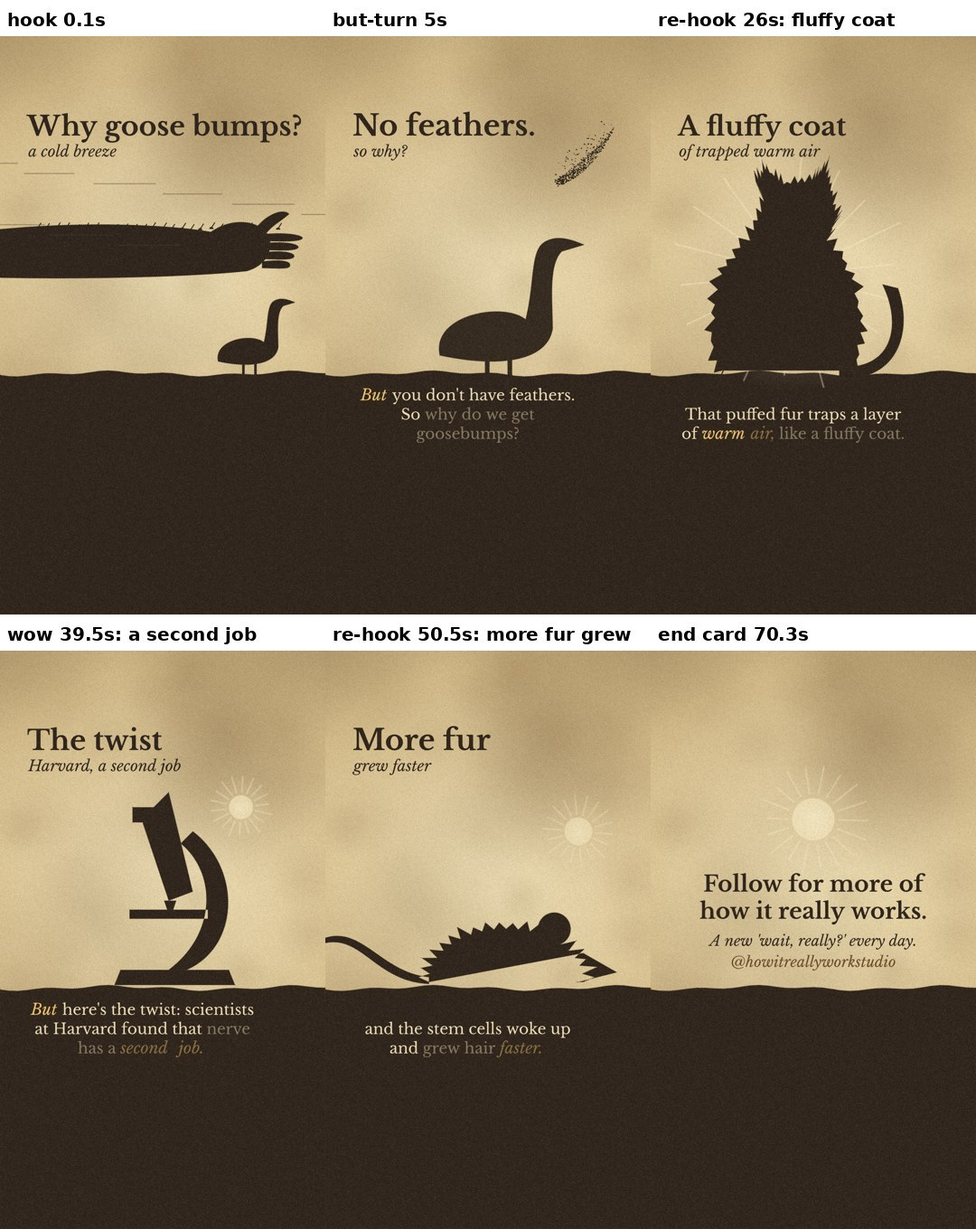
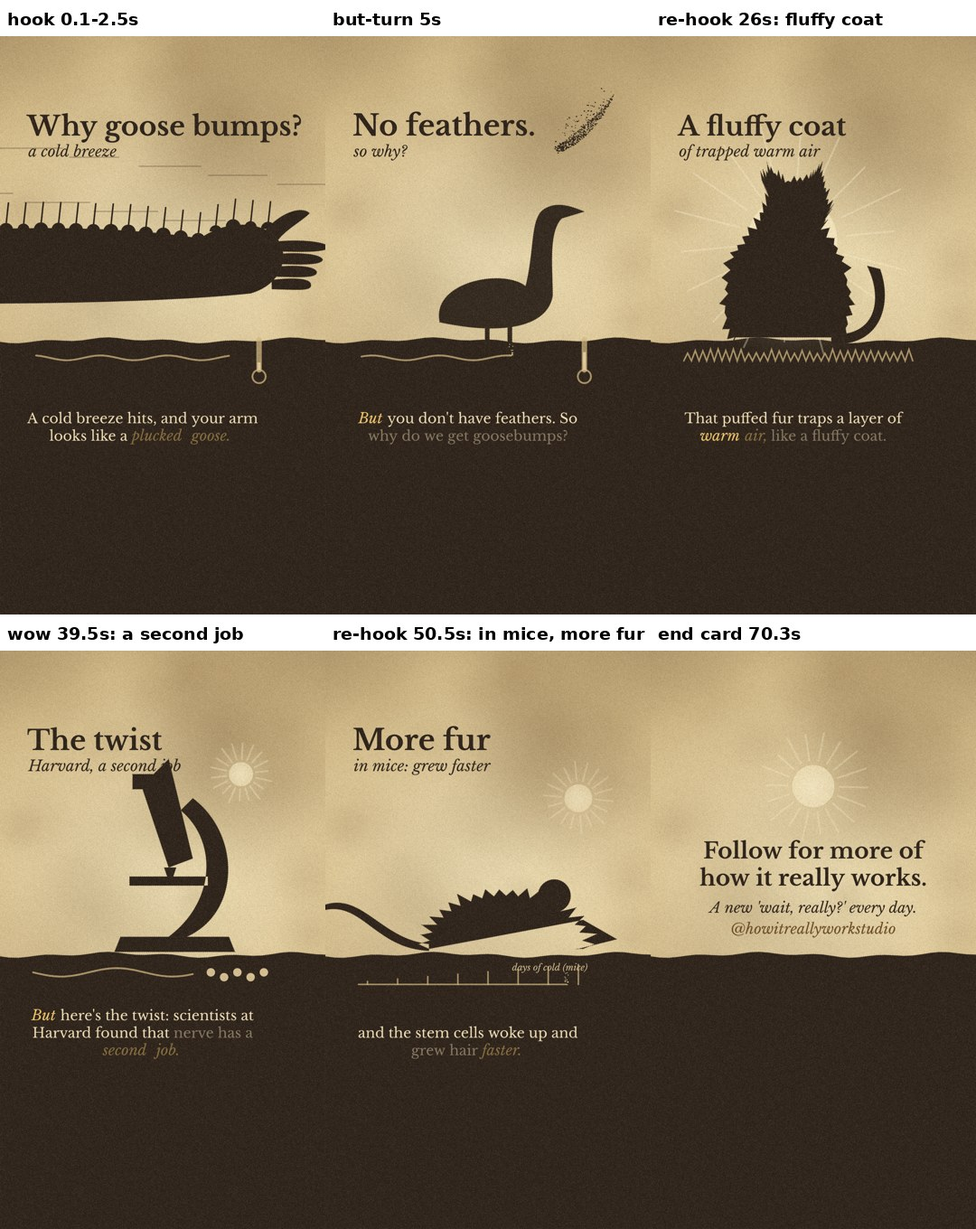
goosebumps: big moving arm hook, lifted horizon with sand drawings in the ground, in mice on screen; mpemba: taller sheet and bigger drawings, thought bubbles, caption card from frame 0, 120 cps typing, digit years in captions
Claude-Session: https://claude.ai/code/session_01BPYB3nfqh6HEjZ42pf9qga

diff --git a/reels/t_goosebumps.js b/reels/t_goosebumps.js
@@ -6,7 +6,7 @@
 // Batch N layout: captions inside x 80-880, bottom at y 1355; titles at y 270-460; silhouettes inside y 250-1120; badge strip y 1366-1440 free.
 await Promise.all(['700 96px Bask', 'italic 400 52px BaskI', '400 50px Bask'].map(f => document.fonts.load(f)));
 const TL = window.TL, PH = TL.p, s = i => PH[i].start, TOT = TL.total;
-const W = 1080, H = 1920, TAU = Math.PI * 2, CX = 540, HZ = 1120;          // HZ: sand horizon
+const W = 1080, H = 1920, TAU = Math.PI * 2, CX = 540, HZ = 1010, DY = -110;   // HZ: sand horizon; DY: scene drawings are lifted to stand on it
 const cv = document.getElementById('c'); cv.width = W; cv.height = H; let g = cv.getContext('2d');
 const clamp = (x, a = 0, b = 1) => Math.min(b, Math.max(a, x)), lerp = (a, b, k) => a + (b - a) * k;
 const ss = (a, b, x) => { const k = clamp((x - a) / (b - a)); return k * k * (3 - 2 * k); }, eo = k => 1 - Math.pow(1 - clamp(k), 3);
@@ -27,7 +27,7 @@ function grain(t) { const q = Math.floor(t * 12), pat = g.createPattern(GRAIN[q 
 const [Mc, Mg] = mk(W, H);
 function sandFill(path, col = SAND, a = 1) { g.save(); g.globalAlpha = a; g.fillStyle = col; g.fill(path); g.globalAlpha = a * .55; g.lineWidth = 3; g.strokeStyle = SAND2; g.setLineDash([2, 5]); g.stroke(path); g.restore(); }
 const PTS = new Map();
-function inside(path, key, n, box) { if (PTS.has(key)) return PTS.get(key); const out = []; let tries = 0; while (out.length < n && tries < n * 40) { tries++; const x = box[0] + hash(tries * 1.31 + key.length) * box[2], y = box[1] + hash(tries * 2.77 + 9) * box[3]; if (g.isPointInPath(path, x, y)) out.push([x, y]); } PTS.set(key, out); return out; }
+function inside(path, key, n, box) { if (PTS.has(key)) return PTS.get(key); const out = []; let tries = 0; g.save(); g.setTransform(1, 0, 0, 1, 0, 0); while (out.length < n && tries < n * 40) { tries++; const x = box[0] + hash(tries * 1.31 + key.length) * box[2], y = box[1] + hash(tries * 2.77 + 9) * box[3]; if (g.isPointInPath(path, x, y)) out.push([x, y]); } g.restore(); PTS.set(key, out); return out; }
 // k: 0 = scattered sand above, .7 = grains settled, 1 = solid. out: 0..1 sweeps it away to the right
 function sandShape(path, key, box, k, o = {}) { if (k <= 0) return; const P = inside(path, key, o.n || 520, box), u = eo(clamp(k / .75)), solid = ss(.6, 1, k), out = o.out || 0;
   if (solid > 0) { g.save(); if (out > 0) { g.beginPath(); g.rect(lerp(-80, 1160, eo(out)), 0, 2000, H); g.clip(); } sandFill(path, o.col || SAND, solid); g.restore(); }
@@ -42,15 +42,32 @@ function rays(x, y, r, a, t) { if (a <= 0) return; g.save(); g.globalAlpha = a; 
   g.strokeStyle = 'rgba(255,244,210,.5)'; g.lineWidth = 6; for (let i = 0; i < 18; i++) { const an = i / 18 * TAU + t * .05; g.beginPath(); g.moveTo(x + Math.cos(an) * r * 1.2, y + Math.sin(an) * r * 1.2); g.lineTo(x + Math.cos(an) * r * (2.2 + .5 * hash(i)), y + Math.sin(an) * r * (2.2 + .5 * hash(i))); g.stroke(); }
   g.fillStyle = LIGHT; g.beginPath(); g.arc(x, y, r, 0, TAU); g.fill(); g.restore(); }
 
+// ---------- sand drawings in the dark ground (light grains scratched in, drawn on progressively with a trickle at the tip) ----------
+function scratch(pts, k, w = 6) { if (k <= 0) return; let tot = 0; const Ls = [0]; for (let i = 1; i < pts.length; i++) { tot += Math.hypot(pts[i][0] - pts[i - 1][0], pts[i][1] - pts[i - 1][1]); Ls.push(tot); } const lim = tot * clamp(k);
+  g.save(); g.strokeStyle = 'rgba(214,186,130,.75)'; g.lineWidth = w; g.lineCap = 'round'; g.beginPath(); let tip = pts[0];
+  for (let i = 0; i < pts.length; i++) { if (Ls[i] > lim) { const a = pts[i - 1], b = pts[i], u = (lim - Ls[i - 1]) / (Ls[i] - Ls[i - 1] || 1); tip = [lerp(a[0], b[0], u), lerp(a[1], b[1], u)]; g.lineTo(...tip); break; } i ? g.lineTo(...pts[i]) : g.moveTo(...pts[i]); tip = pts[i]; } g.stroke();
+  if (k < 1) { g.fillStyle = 'rgba(236,212,160,.9)'; for (let j = 0; j < 14; j++) g.fillRect(tip[0] + (hash(j + ST2) - .5) * 14, tip[1] - 40 + hash(j * 3 + ST2) * 40, 3, 3); } g.restore(); }
+let ST2 = 0;
+const Dl = (x0, x1, y, n, f) => Array.from({ length: n + 1 }, (_, i) => { const u = i / n; return [lerp(x0, x1, u), y + f(u)]; });
+function doodle(k, lt, t) { ST2 = Math.floor(t * 12); const y = 1068, d = clamp((lt - .1) / 1.6);
+  const thermo = (x, lev, kk) => { scratch([[x, y - 60], [x, y + 40]], kk, 18); scratch(Array.from({ length: 21 }, (_, i) => [x + Math.cos(i / 20 * TAU) * 22, y + 62 + Math.sin(i / 20 * TAU) * 22]), kk, 6); if (kk >= 1) { g.fillStyle = 'rgba(236,212,160,.9)'; g.fillRect(x - 5, y + 40 - 100 * lev, 10, 100 * lev); } };
+  if (k <= 1) { scratch(Dl(120, 760, y, 40, u => 8 * Math.sin(u * 18 + t * 2)), d); thermo(860, lerp(.8, .25, ss(.5, 2.5, lt)), clamp(d * 2)); return; }
+  if (k <= 4) { const xs = [150, 380, 610, 840], lab = ['cold', 'nerve', 'muscle', 'hair up']; xs.forEach((x, j) => { const kk = clamp(d * 4 - j); scratch(Array.from({ length: 21 }, (_, i) => [x + Math.cos(i / 20 * TAU) * 34, y + Math.sin(i / 20 * TAU) * 34]), kk, 5); if (j < 3) scratch([[x + 44, y], [xs[j + 1] - 44, y]], clamp(d * 4 - j - .5), 5); if (kk > .9) { g.save(); g.font = 'italic 400 30px BaskI'; g.textAlign = 'center'; g.fillStyle = 'rgba(236,212,160,.95)'; g.fillText(lab[j], x, y + 66); g.restore(); } }); return; }
+  if (k <= 8) { const fur = k <= 6 ? 1 : k === 7 ? .7 : lerp(.7, .15, ss(.4, 2.4, lt)); scratch(Dl(110, 870, y + 10, 60, u => -((Math.floor(u * 60) % 2) ? 40 * fur * (.6 + .4 * hash(Math.floor(u * 60))) : 0)), d, 5); return; }
+  if (k <= 10 || k === 13) { scratch(Dl(110, 640, y, 30, u => 14 * Math.sin(u * 9)), d, 6); for (let j = 0; j < 5; j++) { const kk = clamp(d * 3 - 1 - j * .2); if (kk > 0) { g.fillStyle = `rgba(236,212,160,${.9 * kk})`; g.beginPath(); g.arc(700 + j * 44, y + (j % 2) * 16, 14, 0, TAU); g.fill(); } } return; }
+  if (k <= 14) { scratch([[110, y + 40], [870, y + 40]], d, 5); const days = Math.floor(clamp(d * 1.2) * 8); for (let j = 0; j < days; j++) { const x = 140 + j * 100, h = 10 + j * 8 * (k >= 12 ? 1 : .4); scratch([[x, y + 40], [x, y + 40 - h]], 1, 5); } g.save(); g.font = 'italic 400 30px BaskI'; g.fillStyle = 'rgba(236,212,160,.9)'; g.globalAlpha = clamp(d * 2); g.fillText('days of cold (mice)', 620, y - 6); g.restore(); return; }
+  if (k <= 16) { thermo(860, .3, clamp(d * 2)); scratch(Dl(120, 760, y, 40, u => 8 * Math.sin(u * 18 + t * 2)), d); } }
+
 // ---------- type (demo: serif title + italic sub-line, top-left) ----------
-function title(str, sub, k, o = {}) { if (k <= 0) return; const a = clamp(k / .5); g.save(); g.globalAlpha = a; g.fillStyle = o.col || SAND; g.textBaseline = 'alphabetic';
+let TT = []; function title(...args) { TT.push(args); }
+function drawTitle(str, sub, k, o = {}) { if (k <= 0) return; const a = clamp(k / .5); g.save(); g.globalAlpha = a; g.fillStyle = o.col || SAND; g.textBaseline = 'alphabetic';
   g.font = `700 ${o.size || 96}px Bask`; g.fillText(str, o.x ?? 90, o.y ?? 360); if (sub) { g.font = `italic 400 ${o.subSize || 50}px BaskI`; g.fillText(sub, (o.x ?? 90) + 4, (o.y ?? 360) + 70); } g.restore(); }
 function label(str, x, y, k, o = {}) { if (k <= 0) return; g.save(); g.globalAlpha = clamp(k / .4); g.font = `italic 400 ${o.size || 46}px BaskI`; g.textAlign = o.align || 'center'; g.fillStyle = o.col || SAND; g.fillText(str, x, y); g.restore(); }
 function caption(t) { let i = -1; for (let k = 0; k < PH.length - 1; k++) if (t >= PH[k].start - .1 && t < PH[k + 1].start - .1) i = k; if (i < 0) return; const p = PH[i];
-  g.save(); g.font = '400 50px Bask'; let bold = false; const toks = p.cap.split(' ').map(w => { if (w.startsWith('**')) bold = true; const r = { w: w.replace(/\*\*/g, ''), b: bold }; if (w.replace(/[.,!?:;]+$/, '').endsWith('**')) bold = false; return r; });
-  const lines = [[]]; let lw = 0; toks.forEach(o => { const ww = g.measureText(o.w + ' ').width; if (lw + ww > 760 && lines[lines.length - 1].length) { lines.push([]); lw = 0; } lines[lines.length - 1].push({ ...o, ww }); lw += ww; });
-  const lh = 64, y0 = 1355 - lines.length * lh + 46, a = clamp((t - p.start + .1) / .3), prog = clamp((t - p.start) / Math.max(.6, p.end - p.start - .2)), n = toks.length; let idx = 0;
-  lines.forEach((ln, j) => { const tw = ln.reduce((q, o) => q + o.ww, 0); let x = 480 - tw / 2; ln.forEach(o => { g.font = o.b ? 'italic 400 52px BaskI' : '400 50px Bask'; g.fillStyle = o.b ? '#f6c96a' : CREAM; g.globalAlpha = a * (idx / n <= prog + .03 ? 1 : .45); g.fillText(o.w, x, y0 + j * lh); x += o.ww; idx++; }); });
+  g.save(); g.font = '400 46px Bask'; let bold = false; const toks = p.cap.split(' ').map(w => { if (w.startsWith('**')) bold = true; const r = { w: w.replace(/\*\*/g, ''), b: bold }; if (w.replace(/[.,!?:;]+$/, '').endsWith('**')) bold = false; return r; });
+  const lines = [[]]; let lw = 0; toks.forEach(o => { const ww = g.measureText(o.w + ' ').width; if (lw + ww > 800 && lines[lines.length - 1].length) { lines.push([]); lw = 0; } lines[lines.length - 1].push({ ...o, ww }); lw += ww; });
+  const lh = 58, y0 = 1355 - lines.length * lh + 46, a = clamp((t - p.start + .1) / .3), prog = clamp((t - p.start) / Math.max(.6, p.end - p.start - .2)), n = toks.length; let idx = 0;
+  lines.forEach((ln, j) => { const tw = ln.reduce((q, o) => q + o.ww, 0); let x = 480 - tw / 2; ln.forEach(o => { g.font = o.b ? 'italic 400 48px BaskI' : '400 46px Bask'; g.fillStyle = o.b ? '#f6c96a' : CREAM; g.globalAlpha = a * (idx / n <= prog + .03 ? 1 : .45); g.fillText(o.w, x, y0 + j * lh); x += o.ww; idx++; }); });
   g.restore(); }
 
 // ---------- silhouettes (Path2D builders) ----------
@@ -91,19 +108,22 @@ function skin(k, up, o = {}) { const y0 = 640, fx = 420; const surf = new Path2D
 // ---------- scenes ----------
 const SC = [];
 const L = (i, t) => t - (i ? s(i) - .2 : -1);
-SC[0] = (t, lt) => { const P = arm(440, 720, 1); sandShape(P, 'arm', [0, 560, 1080, 240], 1); const bumps = ss(.6, 2.4, lt);
-  g.fillStyle = SAND; for (let i = 0; i < 26; i++) { const x = 120 + i * 32 + 6 * hash(i), y = 640 - 8 * hash(i * 3), r = 6 + 6 * bumps; g.beginPath(); g.arc(x, y + 8, r, Math.PI, 0); g.fill(); g.strokeStyle = SAND; g.lineWidth = 3; g.beginPath(); g.moveTo(x, y + 4); g.lineTo(x + lerp(14, 2, bumps), y - lerp(10, 30, bumps)); g.stroke(); }
-  for (let i = 0; i < 9; i++) { const y = 300 + i * 34, x = ((step(t) * 600 + i * 230) % 1300) - 200; g.fillStyle = 'rgba(74,58,40,.35)'; g.fillRect(x, y + 120, 160 + 60 * hash(i), 4); }
-  sandShape(goose(820, 1080, .8, Math.floor(t * 4) % 2), 'goose', [700, 820, 340, 300], 1); title('Why goose bumps?', 'a cold breeze', 1, { y: 330, size: 90 }); };
+let ARMTOP = null;
+SC[0] = (t, lt) => { const P = arm(300, 880, 1.4); sandShape(P, 'armBig', [0, 600, 1080, 420], 1, { n: 900 }); const bumps = ss(.3, 2.2, lt);
+  if (!ARMTOP) { g.save(); g.setTransform(1, 0, 0, 1, 0, 0); ARMTOP = Array.from({ length: 16 }, (_, i) => { const x = 20 + i * 58; for (let y = 600; y < 1000; y += 2) if (g.isPointInPath(P, x, y)) return [x, y]; return [x, 900]; }); g.restore(); }
+  g.fillStyle = SAND; g.strokeStyle = SAND; g.lineCap = 'round'; ARMTOP.forEach(([x, y], i) => { const r = 8 + 14 * bumps * (.8 + .4 * hash(i));
+    g.beginPath(); g.arc(x, y + 4, r, Math.PI, 0); g.fill(); g.lineWidth = 5; g.beginPath(); g.moveTo(x, y + 2 - r * .6); g.lineTo(x + lerp(46, 8, bumps), y - r * .6 - lerp(14, 72, bumps)); g.stroke(); });
+  for (let i = 0; i < 9; i++) { const y = 360 + i * 30, x = ((step(t) * 600 + i * 230) % 1300) - 200; g.fillStyle = 'rgba(74,58,40,.35)'; g.fillRect(x, y + 120, 160 + 60 * hash(i), 4); }
+  title('Why goose bumps?', 'a cold breeze', 1, { y: 330, size: 90 }); };
 SC[1] = (t, lt) => { sandShape(goose(560, 1060, 1.5), 'goose2', [330, 660, 520, 480], clamp(lt / 1.4), {}); const f = new Path2D(); f.moveTo(760, 480); f.bezierCurveTo(860, 420, 940, 330, 960, 300); f.bezierCurveTo(930, 380, 860, 470, 770, 500); f.closePath(); sandShape(f, 'feather', [750, 290, 230, 230], clamp((lt - .8) / 1.2));
   if (lt > 2.4) { g.save(); g.strokeStyle = '#8a2a1a'; g.lineWidth = 12; g.globalAlpha = clamp((lt - 2.4) / .3); g.beginPath(); g.moveTo(740, 300); g.lineTo(980, 520); g.stroke(); g.restore(); } title('No feathers.', 'so why?', lt - .3, { y: 330 }); };
 SC[2] = (t, lt) => { skin(clamp(lt / 1.3), 0); label('arrector pili', 760, 960, lt - 1.4, { col: CREAM }); title('Under every hair', 'a tiny muscle', lt - .2, { y: 330, size: 84 }); };
 SC[3] = (t, lt) => { skin(1, 0, { nerve: clamp((lt - .3) / .8) }); label('nerve', 900, 1060, lt - .8, { col: CREAM }); title('Cold!', 'a nerve says: squeeze', lt - .2, { y: 330 }); rays(880, 330, 50, .6, t); };
 SC[4] = (t, lt) => { const up = ss(.3, 2.2, lt); skin(1, up, { nerve: 1 }); label('the bump', 280, 560, lt - 2, {}); title('Pull!', 'the hair stands up', lt - .2, { y: 330 }); };
-SC[5] = (t, lt) => { const pf = ss(1.6, 3.4, lt); sandShape(cat(470, 1110, 1.3, pf), 'cat' + Math.round(pf * 6), [150, 400, 700, 720], lt < 1.5 ? clamp(lt / 1.4) : 1, { n: 600 }); title('A cat in the cold', 'every hair stands up', lt - .2, { y: 330, size: 84 }); };
-SC[6] = (t, lt) => { rays(470, 790, 150, ss(.3, 1.4, lt) * .7, t); sandShape(cat(470, 1110, 1.3, 1), 'cat6', [150, 400, 700, 720], 1); title('A fluffy coat', 'of trapped warm air', lt - .2, { y: 330, size: 88 }); };
-SC[7] = (t, lt) => { sandShape(person(620, 1110, 1.1, 1, 1), 'ape', [380, 380, 520, 740], clamp(lt / 1.6), { n: 600 }); title('Our hairy', 'ancestors', lt - .2, { y: 330 }); rays(300, 640, 44, .55, t); };
-SC[8] = (t, lt) => { const loss = ss(.4, 2.4, lt); sandShape(person(620, 1110, 1.1, 1 - loss, 1 - loss), 'man' + Math.round(loss * 5), [380, 380, 520, 740], 1, { n: 500 });
+SC[5] = (t, lt) => { const pf = ss(1.6, 3.4, lt); sandShape(cat(470, 1110, 1.08, pf), 'cat' + Math.round(pf * 6), [200, 520, 640, 620], lt < 1.5 ? clamp(lt / 1.4) : 1, { n: 600 }); title('A cat in the cold', 'every hair stands up', lt - .2, { y: 330, size: 84 }); };
+SC[6] = (t, lt) => { rays(470, 790, 150, ss(.3, 1.4, lt) * .7, t); sandShape(cat(470, 1110, 1.08, 1), 'cat6', [200, 520, 640, 620], 1); title('A fluffy coat', 'of trapped warm air', lt - .2, { y: 330, size: 88 }); };
+SC[7] = (t, lt) => { sandShape(person(620, 1110, .95, 1, 1), 'ape', [400, 460, 480, 660], clamp(lt / 1.6), { n: 600 }); title('Our hairy', 'ancestors', lt - .2, { y: 330 }); rays(300, 640, 44, .55, t); };
+SC[8] = (t, lt) => { const loss = ss(.4, 2.4, lt); sandShape(person(620, 1110, .95, 1 - loss, 1 - loss), 'man' + Math.round(loss * 5), [400, 460, 480, 660], 1, { n: 500 });
   g.fillStyle = SAND; for (let i = 0; i < 60; i++) { const f = clamp(loss * 1.4 - hash(i) * .4); if (f <= 0 || f >= 1) continue; g.globalAlpha = 1 - f; g.fillRect(620 + (hash(i * 3) - .5) * 260 + f * 400, 700 + hash(i * 7) * 380 - f * 80, 4, 3); } g.globalAlpha = 1; title('Mostly', 'a leftover', lt - .2, { y: 330 }); };
 SC[9] = (t, lt) => { const mic = new Path2D(); mic.moveTo(380, 1110); mic.lineTo(780, 1110); mic.lineTo(760, 1060); mic.lineTo(400, 1060); mic.closePath();           // base
   mic.moveTo(620, 1060); mic.bezierCurveTo(800, 980, 800, 720, 640, 600); mic.lineTo(600, 640); mic.bezierCurveTo(720, 740, 720, 940, 560, 1060); mic.closePath();   // arm
@@ -114,12 +134,12 @@ SC[9] = (t, lt) => { const mic = new Path2D(); mic.moveTo(380, 1110); mic.lineTo
 SC[10] = (t, lt) => { skin(1, .2, { nerve: 1, stem: clamp((lt - .3) / .6), stemLink: clamp((lt - 1) / .8) }); label('hair stem cells', 470, 1060, lt - .8, { col: CREAM }); title('A second wire', 'to the hair-growing cells', lt - .2, { y: 330, size: 84 }); };
 SC[11] = (t, lt) => { sandShape(mouse(600, 1100, 1.6, 0), 'mouse', [0, 800, 1080, 310], clamp(lt / 1.2), { n: 700 }); for (let i = 0; i < 50; i++) { const y = 260 + ((hash(i) * 850 + step(t) * 90) % 850), x = 60 + hash(i * 3) * 960; g.fillStyle = 'rgba(255,245,220,.8)'; g.beginPath(); g.arc(x, y, 4 + 3 * hash(i * 5), 0, TAU); g.fill(); }
   const fl = Math.floor(t * 8) % 2; g.save(); g.strokeStyle = `rgba(255,240,200,${.5 + .4 * fl})`; g.lineWidth = 8; g.shadowColor = 'rgba(255,230,170,.9)'; g.shadowBlur = 20; g.beginPath(); g.moveTo(560, 1010); g.lineTo(620, 930); g.lineTo(590, 880); g.lineTo(680, 790); g.stroke(); g.restore(); title('In mice', 'a long cold spell', lt - .2, { y: 330 }); };
-SC[12] = (t, lt) => { const fu = ss(.2, 2.6, lt); sandShape(mouse(600, 1100, 1.6, fu * 2.2), 'mouseF' + Math.round(fu * 6), [0, 760, 1080, 350], 1, { n: 700 }); title('More fur', 'grew faster', lt - .2, { y: 330 }); rays(840, 600, 46, .5, t); };
+SC[12] = (t, lt) => { const fu = ss(.2, 2.6, lt); sandShape(mouse(600, 1100, 1.6, fu * 2.2), 'mouseF' + Math.round(fu * 6), [0, 760, 1080, 350], 1, { n: 700 }); title('More fur', 'in mice: grew faster', lt - .2, { y: 330 }); rays(840, 600, 46, .5, t); };
 SC[13] = (t, lt) => { skin(1, .3, { nerve: 1, stem: 1, stemLink: 1 }); const pk = ss(.4, 1.2, lt); g.save(); g.strokeStyle = `rgba(255,241,201,${pk})`; g.lineWidth = 6; g.setLineDash([12, 10]); g.beginPath(); g.ellipse(640, 760, 120, 90, -.6, 0, TAU); g.stroke(); g.restore();
   label('the muscle holds the nerve in place', 540, 1070, lt - 1, { col: CREAM, size: 42 }); title('Plugged in', 'by the goosebump muscle', lt - .2, { y: 330, size: 90 }); };
 SC[14] = (t, lt) => { g.save(); g.fillStyle = 'rgba(43,32,22,.25)'; g.fillRect(538, 470, 4, 640); g.restore(); sandShape(cat(290, 1110, .55, ss(.3, 1.2, lt)), 'catQ' + Math.round(ss(.3, 1.2, lt) * 4), [150, 800, 320, 320], 1); sandShape(mouse(790, 1100, .7, ss(1.6, 3.2, lt) * 2.4), 'mouseL' + Math.round(ss(1.6, 3.2, lt) * 5), [560, 990, 460, 130], clamp((lt - 1.2) / .8));
   label('quick cold', 290, 640, lt - .2, { size: 50 }); label('hair stands up', 290, 700, lt - .4, { size: 40 }); label('long cold', 790, 640, lt - 1.4, { size: 50 }); label('more fur (mice)', 790, 700, lt - 1.6, { size: 40 }); title('Short vs long', '', lt - .1, { y: 330, size: 90 }); };
-SC[15] = (t, lt) => { rays(620, 760, 90, ss(.6, 2, lt) * .5, t); const p = person(620, 1110, 1.1, 0, 0), ghost = person(620, 1110, 1.1, 1.6, 0); g.save(); g.globalAlpha = .45 * ss(.4, 1.6, lt); g.fillStyle = '#7a5f3e'; g.fill(ghost); g.restore(); sandShape(p, 'manF', [380, 380, 520, 740], 1);
+SC[15] = (t, lt) => { rays(620, 760, 90, ss(.6, 2, lt) * .5, t); const p = person(620, 1110, .95, 0, 0), ghost = person(620, 1110, .95, 1.6, 0); g.save(); g.globalAlpha = .45 * ss(.4, 1.6, lt); g.fillStyle = '#7a5f3e'; g.fill(ghost); g.restore(); sandShape(p, 'manF', [400, 460, 480, 660], 1);
   title('An old fur coat', 'still keeping you warm', lt - .2, { y: 330, size: 88 }); };
 SC[16] = (t, lt) => { const gm = new Path2D(); gm.rect(380, 930, 320, 140); gm.rect(530, 800, 26, 140); gm.moveTo(540, 820); gm.bezierCurveTo(600, 620, 760, 560, 860, 520); gm.lineTo(900, 700); gm.bezierCurveTo(800, 700, 640, 760, 556, 850); gm.closePath(); sandShape(gm, 'gramo', [370, 500, 540, 580], clamp(lt / 1.2));
   for (let j = 0; j < 4; j++) { const ph = (t * .5 + j * .25) % 1; label('♪', 760 + ph * 160 + 30 * Math.sin(ph * 6 + j), 560 - ph * 260, 1, { size: 80, col: SAND2 }); } title('Music too?', 'yes or no', lt - .2, { y: 330 }); };
@@ -128,7 +148,7 @@ SC[17] = (t, lt) => { rays(540, 560, 70, .6, t); g.save(); g.textAlign = 'center
 
 const START = PH.map(p => p.start); START[0] = 0;
 function sceneAt(t) { let k = 0; for (let i = 0; i < SC.length; i++) if (t >= START[i] - .2) k = i; return k; }
-function draw(t) { const k = sceneAt(t), lt = k === 0 ? t + 1 : t - (START[k] - .2); table(t); ground(t); SC[k](t, lt); if (k > 0 && lt < .55) sweep(lt / .55); if (k < SC.length - 1) caption(t); grain(t); }
+function draw(t) { const k = sceneAt(t), lt = k === 0 ? t + 1 : t - (START[k] - .2); table(t); ground(t); TT = []; g.save(); g.translate(0, DY); SC[k](t, lt); g.restore(); TT.forEach(a => drawTitle(...a)); doodle(k, lt, t); if (k > 0 && lt < .55) sweep(lt / .55); if (k < SC.length - 1) caption(t); grain(t); }
 const F0 = document.createElement('canvas'); F0.width = W; F0.height = H; { const keep = g; g = F0.getContext('2d'); draw(0); g = keep; }
 function frame(t) { draw(t); const k = ss(TOT - .5, TOT, t) * .4; if (k > 0) { g.save(); g.globalAlpha = k; g.drawImage(F0, 0, 0); g.restore(); } }
 
@@ -140,5 +160,5 @@ window.CUES = [['whoosh', .3], ['whoosh', 1.6], ['pop', 2.2], ['whoosh', r(1, -.
 window.DUR = TOT;
 window.seek = t => frame(t);
 window.render = window.seek;
-window.thumb = () => { table(2); ground(2); sandShape(cat(470, 1110, 1.1, 1), 'catT', [220, 520, 600, 620], 1); rays(860, 560, 50, .6, 2); g.save(); g.fillStyle = SAND; g.font = '700 130px Bask'; g.fillText('Why', 90, 330); g.fillText('goose-', 90, 470); g.fillText('bumps?', 90, 610); g.restore(); grain(2); };
+window.thumb = () => { table(2); ground(2); g.save(); g.translate(0, DY); sandShape(cat(470, 1110, 1.1, 1), 'catT', [220, 520, 600, 620], 1); rays(860, 560, 50, .6, 2); g.restore(); g.save(); g.fillStyle = SAND; g.font = '700 130px Bask'; g.fillText('Why', 90, 330); g.fillText('goose-', 90, 470); g.fillText('bumps?', 90, 610); g.restore(); grain(2); };
 window.seek(0); window.ready = true; window.READY = true;

diff --git a/reels/t_mpemba.js b/reels/t_mpemba.js
@@ -13,7 +13,7 @@ const ss = (a, b, x) => { const k = clamp((x - a) / (b - a)); return k * k * (3 
 const fr = x => x - Math.floor(x), hash = n => fr(Math.sin(n * 127.1 + 311.7) * 43758.5453);
 const INK = '#1d1f26', MINT = '#4fe0bd', PURP = '#7b6cf0', RED = '#e2574c', BLUE = '#4f8fe6', PAPER = '#eeeee8', BOARD = '#2a3245';
 let ST = 0;                      // 12 fps step index (the boil seed)
-const SX0 = 60, SY0 = 450, SX1 = 1020, SY1 = 1110;    // the sheet
+const SX0 = 60, SY0 = 360, SX1 = 1020, SY1 = 1140;    // the sheet
 
 // ---------- ink: wobbly line that draws on (k) and re-jitters on 12 fps steps ----------
 function ink(pts, k = 1, o = {}) { if (k <= 0 || pts.length < 2) return; const seed = o.seed || 1, j = o.j ?? 1.3; let tot = 0; const L = [0]; for (let i = 1; i < pts.length; i++) { tot += Math.hypot(pts[i][0] - pts[i - 1][0], pts[i][1] - pts[i - 1][1]); L.push(tot); }
@@ -32,23 +32,25 @@ function txt(str, x, y, size, k = 1, o = {}) { if (k <= 0) return; g.save(); g.g
 
 // ---------- board, header, title, sheet, mascot, caption card ----------
 function board() { g.setTransform(1, 0, 0, 1, 0, 0); g.fillStyle = BOARD; g.fillRect(0, 0, W, H); g.strokeStyle = 'rgba(255,255,255,.045)'; g.lineWidth = 2; for (let x = 0; x <= W; x += 40) { g.beginPath(); g.moveTo(x, 0); g.lineTo(x, H); g.stroke(); } for (let y = 0; y <= H; y += 40) { g.beginPath(); g.moveTo(0, y); g.lineTo(W, y); g.stroke(); }
-  g.font = '600 26px Mono'; g.fillStyle = 'rgba(214,220,235,.75)'; if ('letterSpacing' in g) g.letterSpacing = '6px'; g.fillText('HAND-DRAWN STOP-MOTION · 12 FPS', 64, 292); if ('letterSpacing' in g) g.letterSpacing = '0px'; }
-function title(pre, hi, post = '') { g.save(); g.font = '800 78px SnigX'; const w1 = g.measureText(pre).width, w2 = g.measureText(hi).width; g.fillStyle = MINT; g.fillRect(64 + w1 - 4, 372, w2 + 10, 26); g.fillStyle = '#f4f6fb'; g.fillText(pre + hi + post, 64, 392); g.restore(); }
+  g.font = '600 26px Mono'; g.fillStyle = 'rgba(214,220,235,.75)'; if ('letterSpacing' in g) g.letterSpacing = '6px'; g.fillText('HAND-DRAWN STOP-MOTION · 12 FPS', 64, 268); if ('letterSpacing' in g) g.letterSpacing = '0px'; }
+let TT = null; function title(pre, hi, post = '') { TT = [pre, hi, post]; }
+function drawTitle() { if (!TT) return; const [pre, hi, post] = TT; g.save(); g.font = '800 78px SnigX'; const w1 = g.measureText(pre).width, w2 = g.measureText(hi).width; g.fillStyle = MINT; g.fillRect(64 + w1 - 4, 318, w2 + 10, 24); g.fillStyle = '#f4f6fb'; g.fillText(pre + hi + post, 64, 337); g.restore(); }
 function sheet(sc) { g.save(); g.shadowColor = 'rgba(0,0,0,.45)'; g.shadowBlur = 26; g.shadowOffsetY = 10; g.fillStyle = PAPER; g.fillRect(SX0, SY0, SX1 - SX0, SY1 - SY0); g.restore();
   const vg = g.createRadialGradient(540, 760, 100, 540, 780, 640); vg.addColorStop(0, 'rgba(255,255,255,.35)'); vg.addColorStop(1, 'rgba(0,0,0,.06)'); g.fillStyle = vg; g.fillRect(SX0, SY0, SX1 - SX0, SY1 - SY0);
-  g.strokeStyle = 'rgba(0,0,0,.05)'; g.lineWidth = 2; for (const [x, y, r] of [[880, 560, 60], [930, 980, 40], [150, 640, 34]]) { g.beginPath(); g.arc(x, y, r, 0, TAU); g.stroke(); }
-  g.fillStyle = INK; g.fillRect(430, 476, 50, 8); g.fillRect(600, 476, 50, 8); g.beginPath(); g.arc(540, 480, 8, 0, TAU); g.fill();          // camera notch
+  g.strokeStyle = 'rgba(0,0,0,.05)'; g.lineWidth = 2; for (const [x, y, r] of [[880, 470, 60], [930, 1040, 40], [150, 560, 34]]) { g.beginPath(); g.arc(x, y, r, 0, TAU); g.stroke(); }
+  g.fillStyle = INK; g.fillRect(430, SY0 + 26, 50, 8); g.fillRect(600, SY0 + 26, 50, 8); g.beginPath(); g.arc(540, SY0 + 30, 8, 0, TAU); g.fill();          // camera notch
   for (const [x, a] of [[SX0 + 10, -.6], [SX1 - 10, .6]]) { g.save(); g.translate(x, SY0 + 4); g.rotate(a); g.fillStyle = 'rgba(232,214,160,.85)'; g.fillRect(-60, -16, 120, 32); g.restore(); }   // tape
   g.font = '400 22px Mono'; g.fillStyle = 'rgba(0,0,0,.35)'; g.textAlign = 'right'; g.fillText(`sc ${sc} · ${String(ST).padStart(4, '0')}`, 860, SY1 - 22); g.textAlign = 'left'; }
 function cube(x, y, s = 1, mood = 'smile', k = 1) { if (k <= 0) return; const P = dens([[x - 46 * s, y - 40 * s], [x + 40 * s, y - 46 * s], [x + 46 * s, y + 40 * s], [x - 40 * s, y + 46 * s]], true, 6); shape(P, k, '#9adff0', { seed: 900 });
   g.fillStyle = INK; g.beginPath(); g.arc(x - 14 * s, y - 6 * s, 4.5 * s, 0, TAU); g.arc(x + 16 * s, y - 8 * s, 4.5 * s, 0, TAU); g.fill();
   ink(mood === 'oh' ? circle(x + 2 * s, y + 18 * s, 7 * s, 16) : mood === 'flat' ? [[x - 10 * s, y + 18 * s], [x + 14 * s, y + 16 * s]] : [[x - 14 * s, y + 12 * s], [x + 1 * s, y + 22 * s], [x + 16 * s, y + 10 * s]], 1, { w: 3, seed: 901 });
   if (mood === 'shrug') { ink([[x - 50 * s, y + 10 * s], [x - 80 * s, y - 20 * s]], 1, { seed: 903 }); ink([[x + 50 * s, y + 10 * s], [x + 80 * s, y - 20 * s]], 1, { seed: 904 }); } }
-function card(t) { g.save(); g.shadowColor = 'rgba(0,0,0,.4)'; g.shadowBlur = 20; g.shadowOffsetY = 8; g.fillStyle = '#f4f4ef'; g.fillRect(SX0, 1150, SX1 - SX0, 205); g.restore();
-  let i = -1; for (let k = 0; k < PH.length - 1; k++) if (t >= PH[k].start - .1 && t < PH[k + 1].start - .1) i = k; if (i < 0) return; const p = PH[i];
-  g.save(); g.font = '400 48px Snig'; const words = p.cap.replace(/\*\*/g, '').split(' '), lines = [[]]; let lw = 0; words.forEach(w => { const ww = g.measureText(w + ' ').width; if (lw + ww > 760 && lines[lines.length - 1].length) { lines.push([]); lw = 0; } lines[lines.length - 1].push(w); lw += ww; });
-  const total = words.join(' ').length, shown = Math.floor(clamp((t - p.start + .05) / Math.max(.6, (p.end - p.start) * .8)) * total); let c = 0; g.fillStyle = INK;     // typed on, letter by letter, like the demo's caption card
-  lines.forEach((ln, j) => { let str = ln.join(' '); if (c + str.length > shown) str = str.slice(0, Math.max(0, shown - c)); g.fillText(str, 100, 1218 + j * 58); c += ln.join(' ').length + 1; }); g.restore(); }
+function card(t) { g.save(); g.shadowColor = 'rgba(0,0,0,.4)'; g.shadowBlur = 20; g.shadowOffsetY = 8; g.fillStyle = '#f4f4ef'; g.fillRect(SX0, 1160, SX1 - SX0, 202); g.restore();
+  let i = -1; for (let k = 0; k < PH.length - 1; k++) if (t >= PH[k].start - .1 && t < PH[k + 1].start - .1) i = k;
+  if (i < 0) { if (t >= 0 && t < PH[0].start) { g.save(); g.font = '400 42px Snig'; g.fillStyle = INK; g.fillText('Hot vs cold?', 100, 1213); g.restore(); } return; } const p = PH[i];
+  g.save(); g.font = '400 42px Snig'; const words = p.cap.replace(/\*\*/g, '').split(' '), lines = [[]]; let lw = 0; words.forEach(w => { const ww = g.measureText(w + ' ').width; if (lw + ww > 800 && lines[lines.length - 1].length) { lines.push([]); lw = 0; } lines[lines.length - 1].push(w); lw += ww; });
+  const total = words.join(' ').length, shown = Math.floor(Math.max(0, t - p.start + .05) * 120); let c = 0; g.fillStyle = INK;     // typed on, letter by letter, like the demo's caption card   // typed at 120 characters/s
+  lines.forEach((ln, j) => { let str = ln.join(' '); if (c + str.length > shown) str = str.slice(0, Math.max(0, shown - c)); g.fillText(str, 100, 1213 + j * 48); c += ln.join(' ').length + 1; }); g.restore(); }
 
 // ---------- objects ----------
 function mug(x, y, k, hot, o = {}) { const P = dens([[x - 80, y - 120], [x + 80, y - 120], [x + 66, y + 60], [x - 66, y + 60]], true); shape(P, k, hot ? RED : BLUE, { seed: hot ? 10 : 20, a: .55 }); ink(dens([[x + 78, y - 80], [x + 120, y - 70], [x + 118, y], [x + 72, y + 10]], false), k, { seed: hot ? 11 : 21 });
@@ -64,8 +66,8 @@ function stick(x, y, k, seed, o = {}) { ink(circle(x, y - 150, 28, 24), k, { see
 // ---------- scenes ----------
 const SC = [], r = (i, d = 0) => s(i) + d;
 SC[0] = (lt) => { freezer(640, 560, 300, 480, 1); mug(270, 860, 1, true); mug(500, 900, 1, false); txt('?', 790, 820, 150, 1, { col: PURP }); title('Hot vs ', 'cold', '?'); return { sc: 1, mood: 'oh' }; };
-SC[1] = (lt) => { chart(180, 560, 640, 420, clamp(lt / .8), { xl: '', yl: 'votes' }); shape(rect(260, 700, 140, 280), clamp((lt - .5) / .8), BLUE, { seed: 50 }); shape(rect(560, 880, 140, 100), clamp((lt - 1.6) / .8), RED, { seed: 51 });
-  txt('cold', 330, 1040, 40, lt - .8); txt('hot', 630, 1040, 40, lt - 1.9); txt('most people', 330, 680, 34, lt - 1); txt('some swear', 630, 860, 34, lt - 2.1); title('Which ', 'freezes', ' first?'); return { sc: 2, mood: 'smile' }; };
+SC[1] = (lt) => { stick(300, 1060, clamp(lt / .8), 50); stick(760, 1060, clamp((lt - 1.2) / .8), 55, { wave: true });
+  for (const [x, y, w2, word, col, k] of [[330, 680, 300, 'cold, obviously.', BLUE, lt - .5], [740, 680, 240, 'hot!', RED, lt - 1.8]]) { shape(dens(Array.from({ length: 24 }, (_, i) => { const a = i / 24 * TAU; return [x + Math.cos(a) * w2 / 2 * (1 + .06 * Math.sin(a * 7)), y + Math.sin(a) * 90 * (1 + .06 * Math.sin(a * 7))]; }), true, 10), clamp(k / .6), null, { seed: 52 + x }); ink(circle(x - 40, y + 130, 16, 16), clamp(k / .6), { seed: 53 + x }); ink(circle(x - 60, y + 175, 9, 12), clamp(k / .6), { seed: 54 + x }); txt(word, x, y + 14, 44, k - .3, { col }); } title('Which ', 'freezes', ' first?'); return { sc: 2, mood: 'smile' }; };
 SC[2] = (lt) => { bust(260, 820, 'Aristotle', clamp(lt / .9), 60); bust(540, 820, 'Bacon', clamp((lt - 1.2) / .9), 62); bust(820, 820, 'Descartes', clamp((lt - 1.8) / .9), 64); txt('"warmed water freezes quickly"', 540, 600, 34, lt - .6, { f: 'Snig', wt: 400 }); title('An ', 'old', ' idea'); return { sc: 3, mood: 'smile' }; };
 SC[3] = (lt) => { stick(420, 1020, clamp(lt / 1), 70, { wave: true }); shape(rect(600, 640, 300, 200), clamp((lt - .6) / .8), MINT, { seed: 72 }); ink(dens([[600, 640], [750, 560], [900, 640]], false), clamp((lt - .6) / .8), { seed: 73 }); txt('school', 750, 760, 40, lt - 1.2); txt('Tanzania', 750, 900, 40, lt - 1.4, { col: PURP });
   txt('Erasto Mpemba', 420, 720, 46, lt - 1.8); title('A schoolboy, ', 'Mpemba'); return { sc: 4, mood: 'smile' }; };
@@ -102,9 +104,11 @@ SC[15] = (lt) => { mug(330, 860, 1, true); mug(750, 900, 1, false); for (const [
 SC[16] = (lt) => { const k = clamp(lt / .5); txt('Follow for more of', CX, 700, 64, k, { f: 'SnigX', wt: 800 }); g.save(); g.font = '800 64px SnigX'; const w2 = g.measureText('how it really works.').width; g.fillStyle = MINT; g.globalAlpha = k; g.fillRect(CX - w2 / 2, 775, w2 * clamp((lt - .3) / .5), 22); g.restore(); txt('how it really works.', CX, 790, 64, k, { f: 'SnigX', wt: 800 });
   txt("A new 'wait, really?' every day.", CX, 880, 44, lt - .6, { f: 'Snig', wt: 400 }); txt('@howitreallyworkstudio', CX, 950, 40, lt - .8, { f: 'Mono', wt: 600, col: PURP }); title('Hot vs ', 'cold', '.'); return { sc: 17, mood: 'smile' }; };
 
+// per-scene zoom of the drawing on the taller sheet [scale, centre x]; the freezer, mugs and the 1 cm trap get the biggest
+const ZOOM = { 0: [1.22, 560], 5: [1.15, 590], 10: [1.28, 600], 11: [1.3, 540], 13: [1.15, 530], 16: [1.1, 540] };
 const START = PH.map(p => p.start); START[0] = 0;
 function sceneAt(t) { let k = 0; for (let i = 0; i < SC.length; i++) if (t >= START[i] - .2) k = i; return k; }
-function draw(t) { ST = Math.floor(t * 12); const k = sceneAt(t), lt = k === 0 ? 9 : t - (START[k] - .2); board(); sheet(k + 1); const st = SC[k](lt); cube(170, 1030, .9, st.mood); if (k < SC.length - 1) card(t); else card(-1); }
+function draw(t) { ST = Math.floor(t * 12); const k = sceneAt(t), lt = k === 0 ? 9 : t - (START[k] - .2); board(); sheet(k + 1); g.save(); g.beginPath(); g.rect(SX0, SY0, SX1 - SX0, SY1 - SY0); g.clip(); const [zs, zx] = ZOOM[k] || [1.17, 540]; g.translate(540, 770); g.scale(zs, zs); g.translate(-zx, -790); TT = null; const st = SC[k](lt); g.restore(); drawTitle(); cube(165, 1085, .9, st.mood); if (k < SC.length - 1) card(t); else card(-1); }
 const F0 = document.createElement('canvas'); F0.width = W; F0.height = H; { const keep = g; g = F0.getContext('2d'); draw(0); g = keep; }
 function frame(t) { draw(t); const k = ss(TOT - .5, TOT, t) * .4; if (k > 0) { g.save(); g.globalAlpha = k; g.drawImage(F0, 0, 0); g.restore(); } }
 
@@ -114,5 +118,5 @@ window.CUES = [['pop', .3], ['tick', 1.2], ['tick', 2.4], ['whoosh', r(1, -.2)],
 window.DUR = TOT;
 window.seek = t => frame(t);
 window.render = window.seek;
-window.thumb = () => { ST = 30; board(); sheet(1); freezer(640, 560, 300, 480, 1); mug(270, 860, 1, true); mug(500, 900, 1, false); cube(170, 1030, .9, 'oh'); g.save(); g.font = '800 104px SnigX'; g.fillStyle = MINT; g.fillRect(60, 1210, 560, 34); g.fillStyle = '#f4f6fb'; g.fillText('Does HOT', 64, 1180); g.fillText('freeze first?', 64, 1240); g.restore(); title('Hot vs ', 'cold', '?'); };
+window.thumb = () => { ST = 30; board(); sheet(1); freezer(640, 560, 300, 480, 1); mug(270, 860, 1, true); mug(500, 900, 1, false); cube(170, 1030, .9, 'oh'); g.save(); g.font = '800 104px SnigX'; g.fillStyle = MINT; g.fillRect(60, 1210, 560, 34); g.fillStyle = '#f4f6fb'; g.fillText('Does HOT', 64, 1180); g.fillText('freeze first?', 64, 1240); g.restore(); title('Hot vs ', 'cold', '?'); drawTitle(); };
 window.seek(0); window.ready = true; window.READY = true;

diff --git a/reels/tl_mpemba.js b/reels/tl_mpemba.js
@@ -1,1 +1,1 @@
-window.TL={"total": 81.233, "p": [{"i": 0, "cap": "Hot water and cold water go in the freezer. Which freezes **first?**", "start": 0.35, "end": 4.093}, {"i": 1, "cap": "Most people say cold. **But** some swear it's hot. So does hot water really freeze faster than cold?", "start": 4.473, "end": 10.361}, {"i": 2, "cap": "The idea is old. **Aristotle** wrote about it, and so did Bacon and Descartes.", "start": 11.061, "end": 15.881}, {"i": 3, "cap": "It got its name from a schoolboy in Tanzania, **Erasto Mpemba.**", "start": 16.581, "end": 20.252}, {"i": 4, "cap": "Making ice cream at school, he put his mix in the freezer while it was still **hot.**", "start": 20.632, "end": 24.899}, {"i": 5, "cap": "And it froze before his classmate's **cooler** mix.", "start": 25.599, "end": 27.896}, {"i": 6, "cap": "In nineteen sixty-nine, he and a physicist, Denis Osborne, published tests where hot water **started freezing first.**", "start": 28.596, "end": 35.656}, {"i": 7, "cap": "Case closed? **Not quite.**", "start": 36.356, "end": 37.817}, {"i": 8, "cap": "In twenty sixteen, two scientists ran very **careful** tests,", "start": 38.517, "end": 42.048}, {"i": 9, "cap": "and found **no real evidence** that hot water cools faster.", "start": 42.188, "end": 45.296}, {"i": 10, "cap": "They also found a sneaky trap: put the thermometer just **one centimeter** off, and the result can flip.", "start": 45.996, "end": 51.814}, {"i": 11, "cap": "So why do some freezers seem to show it?", "start": 52.514, "end": 54.404}, {"i": 12, "cap": "Hot water **evaporates,** so there's a little less of it left to freeze.", "start": 55.104, "end": 58.655}, {"i": 13, "cap": "It also holds less **dissolved gas,** it stirs itself with **currents,** and cold water can **supercool:** stay liquid below zero.", "start": 59.355, "end": 67.133}, {"i": 14, "cap": "So the honest answer: **sometimes,** under special conditions. And scientists **still argue** about it.", "start": 67.833, "end": 73.498}, {"i": 15, "cap": "Which freezes first in your freezer? **Hot or cold?**", "start": 74.198, "end": 77.008}, {"i": 16, "cap": "Follow for more of **how it really works.**", "start": 77.388, "end": 79.253}]};
+window.TL={"total": 81.233, "p": [{"i": 0, "cap": "Hot water and cold water go in the freezer. Which freezes **first?**", "start": 0.35, "end": 4.093}, {"i": 1, "cap": "Most people say cold. **But** some swear it's hot. So does hot water really freeze faster than cold?", "start": 4.473, "end": 10.361}, {"i": 2, "cap": "The idea is old. **Aristotle** wrote about it, and so did Bacon and Descartes.", "start": 11.061, "end": 15.881}, {"i": 3, "cap": "It got its name from a schoolboy in Tanzania, **Erasto Mpemba.**", "start": 16.581, "end": 20.252}, {"i": 4, "cap": "Making ice cream at school, he put his mix in the freezer while it was still **hot.**", "start": 20.632, "end": 24.899}, {"i": 5, "cap": "And it froze before his classmate's **cooler** mix.", "start": 25.599, "end": 27.896}, {"i": 6, "cap": "In 1969, he and a physicist, Denis Osborne, published tests where hot water **started freezing first.**", "start": 28.596, "end": 35.656}, {"i": 7, "cap": "Case closed? **Not quite.**", "start": 36.356, "end": 37.817}, {"i": 8, "cap": "In 2016, two scientists ran very **careful** tests,", "start": 38.517, "end": 42.048}, {"i": 9, "cap": "and found **no real evidence** that hot water cools faster.", "start": 42.188, "end": 45.296}, {"i": 10, "cap": "They also found a sneaky trap: put the thermometer just **one centimeter** off, and the result can flip.", "start": 45.996, "end": 51.814}, {"i": 11, "cap": "So why do some freezers seem to show it?", "start": 52.514, "end": 54.404}, {"i": 12, "cap": "Hot water **evaporates,** so there's a little less of it left to freeze.", "start": 55.104, "end": 58.655}, {"i": 13, "cap": "It also holds less **dissolved gas,** it stirs itself with **currents,** and cold water can **supercool:** stay liquid below zero.", "start": 59.355, "end": 67.133}, {"i": 14, "cap": "So the honest answer: **sometimes,** under special conditions. And scientists **still argue** about it.", "start": 67.833, "end": 73.498}, {"i": 15, "cap": "Which freezes first in your freezer? **Hot or cold?**", "start": 74.198, "end": 77.008}, {"i": 16, "cap": "Follow for more of **how it really works.**", "start": 77.388, "end": 79.253}]};
